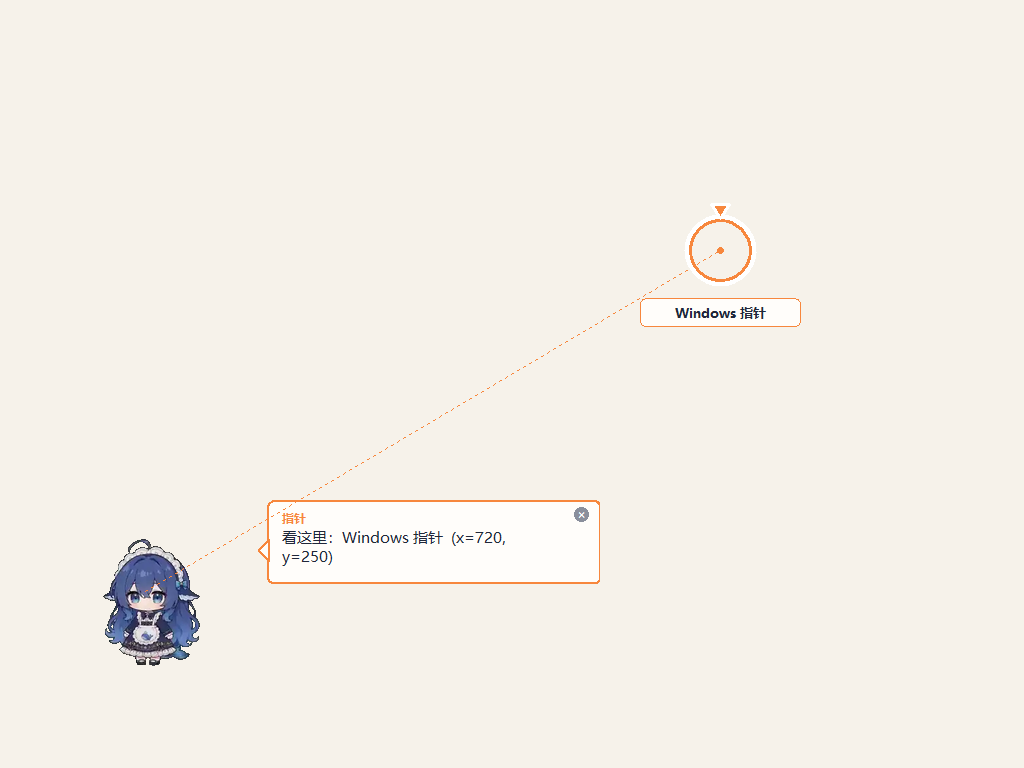
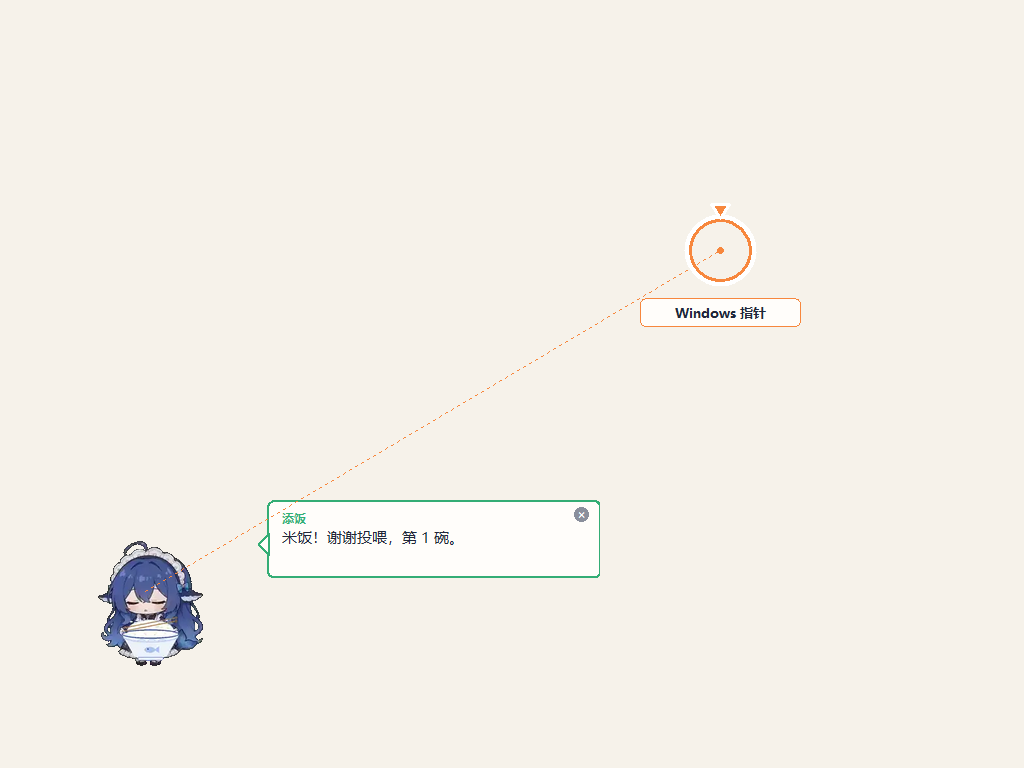
同步 Windows CI 米饭/头顶歌词截图；打包去除 AppleDouble

Changed region(s): [[0.25, 0.6562, 0.5938, 0.7812], [0.0938, 0.6875, 0.2188, 0.875]]

diff --git a/docs/AUDIT.md b/docs/AUDIT.md
@@ -91,7 +91,7 @@
 
 ![Windows 桌面窗口版](../audit/screenshots/06-windows-gui.png)
 
-- 真实 Windows Server 2025 CI 桌面：宠物窗口（二值 alpha 抠图）、气泡、指针圈/标签、虚线。
+- 真实 Windows Server 2025 CI 桌面：宠物窗口（二值 alpha 抠图）、独立 rice 动画、米饭气泡、指针圈/标签、虚线。
 - 冒烟只覆盖渲染与启动；Windows 安装器（含 Pillow/clips）已在 CI 通过；真实 Windows 机器上的拖拽/点击穿透/字体仍需人工复核。
 
 ### 7. Windows 歌词唱歌（CI 冒烟）

diff --git a/docs/RELEASE.md b/docs/RELEASE.md
@@ -8,7 +8,7 @@
 | --- | --- | --- |
 | macOS | `dafeiyu-coach-1.1.0-macos.zip` | `Dafeiyu Coach.app`（universal，含 15 段动画/音乐适配器/skills）+ CLI |
 | Windows | `dafeiyu-coach-1.1.0-windows.zip` | 桌面窗口版 `dafeiyu gui` + 终端版 `dafeiyu tui` + `install.ps1` + SMTC/clips |
-| 校验 | `SHA256SUMS` | 见 `dist/SHA256SUMS`；当前 8.3 MB / 7.1 MB |
+| 校验 | `SHA256SUMS` | 见 `dist/SHA256SUMS`；当前 8.6 MB / 7.7 MB |
 
 ## macOS
 
